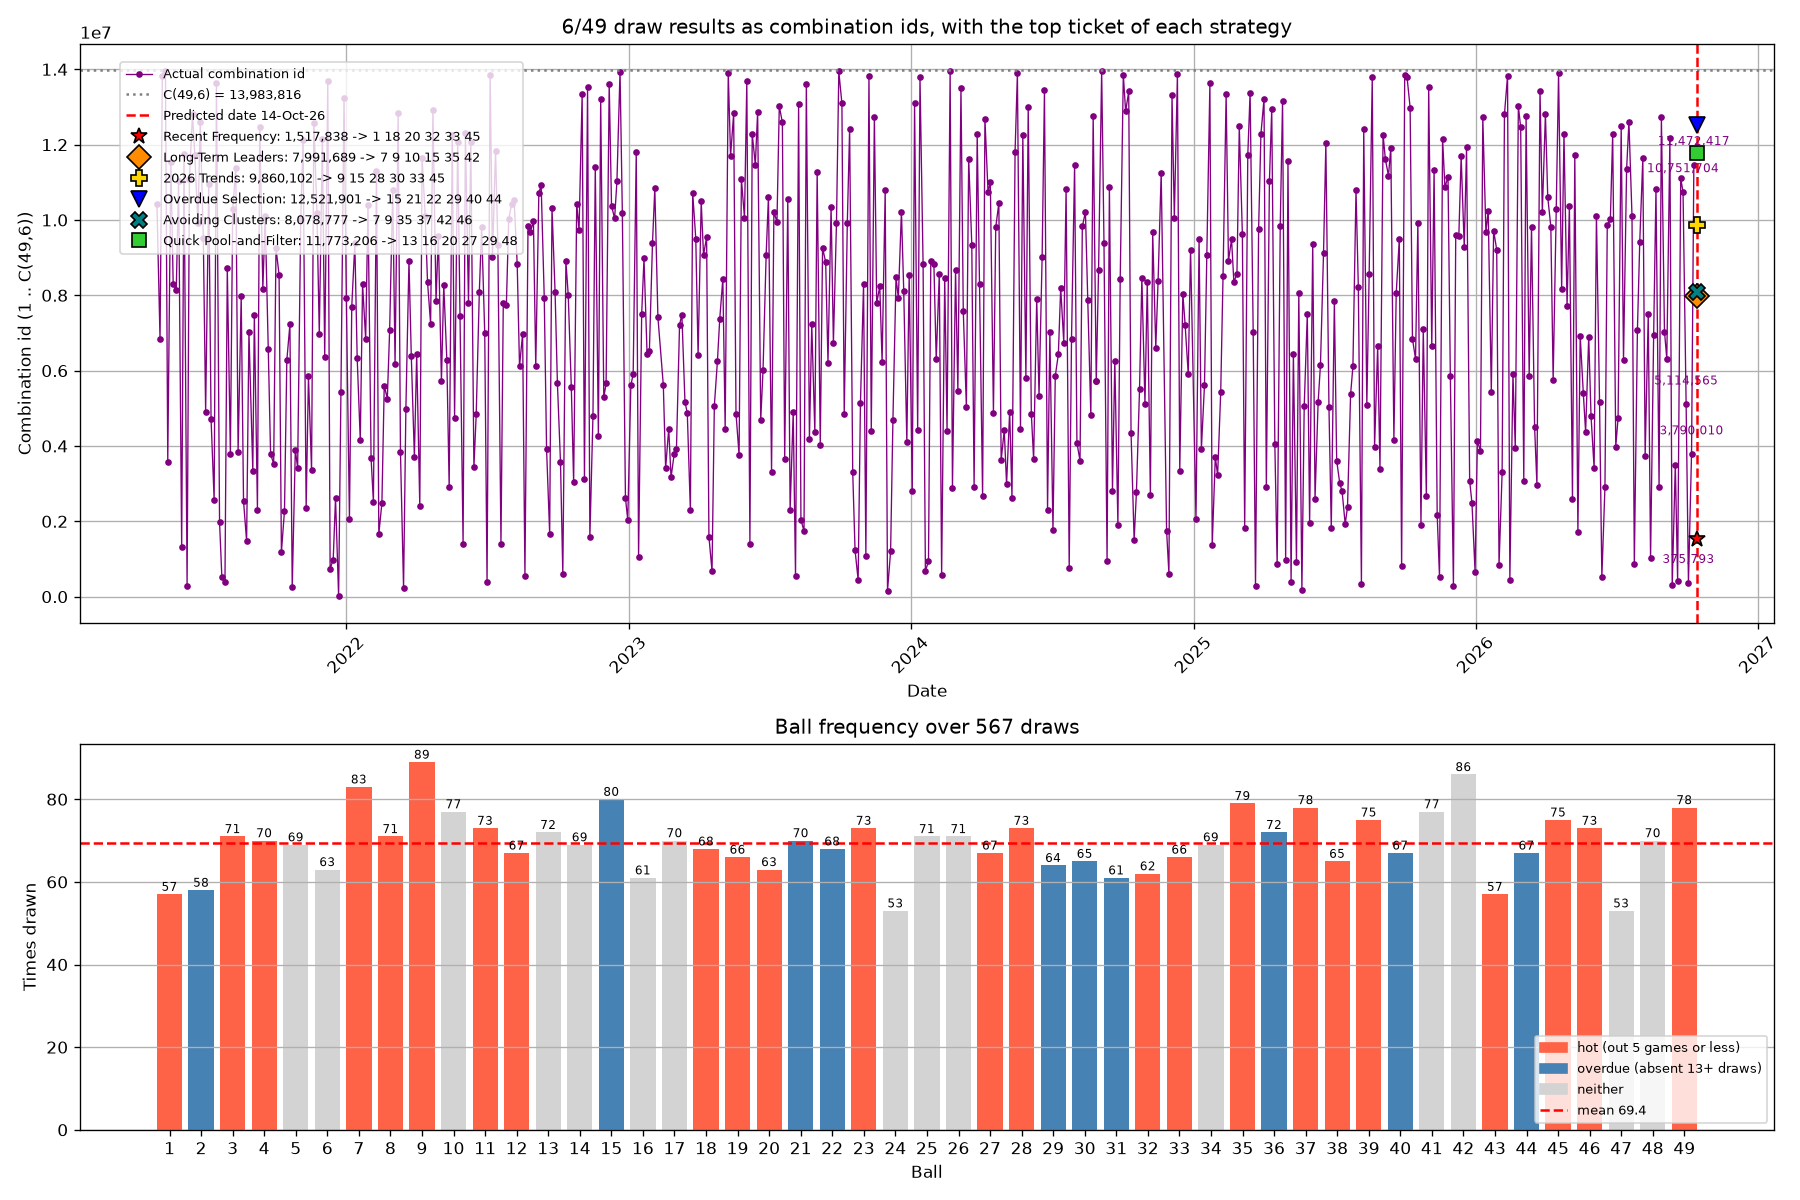
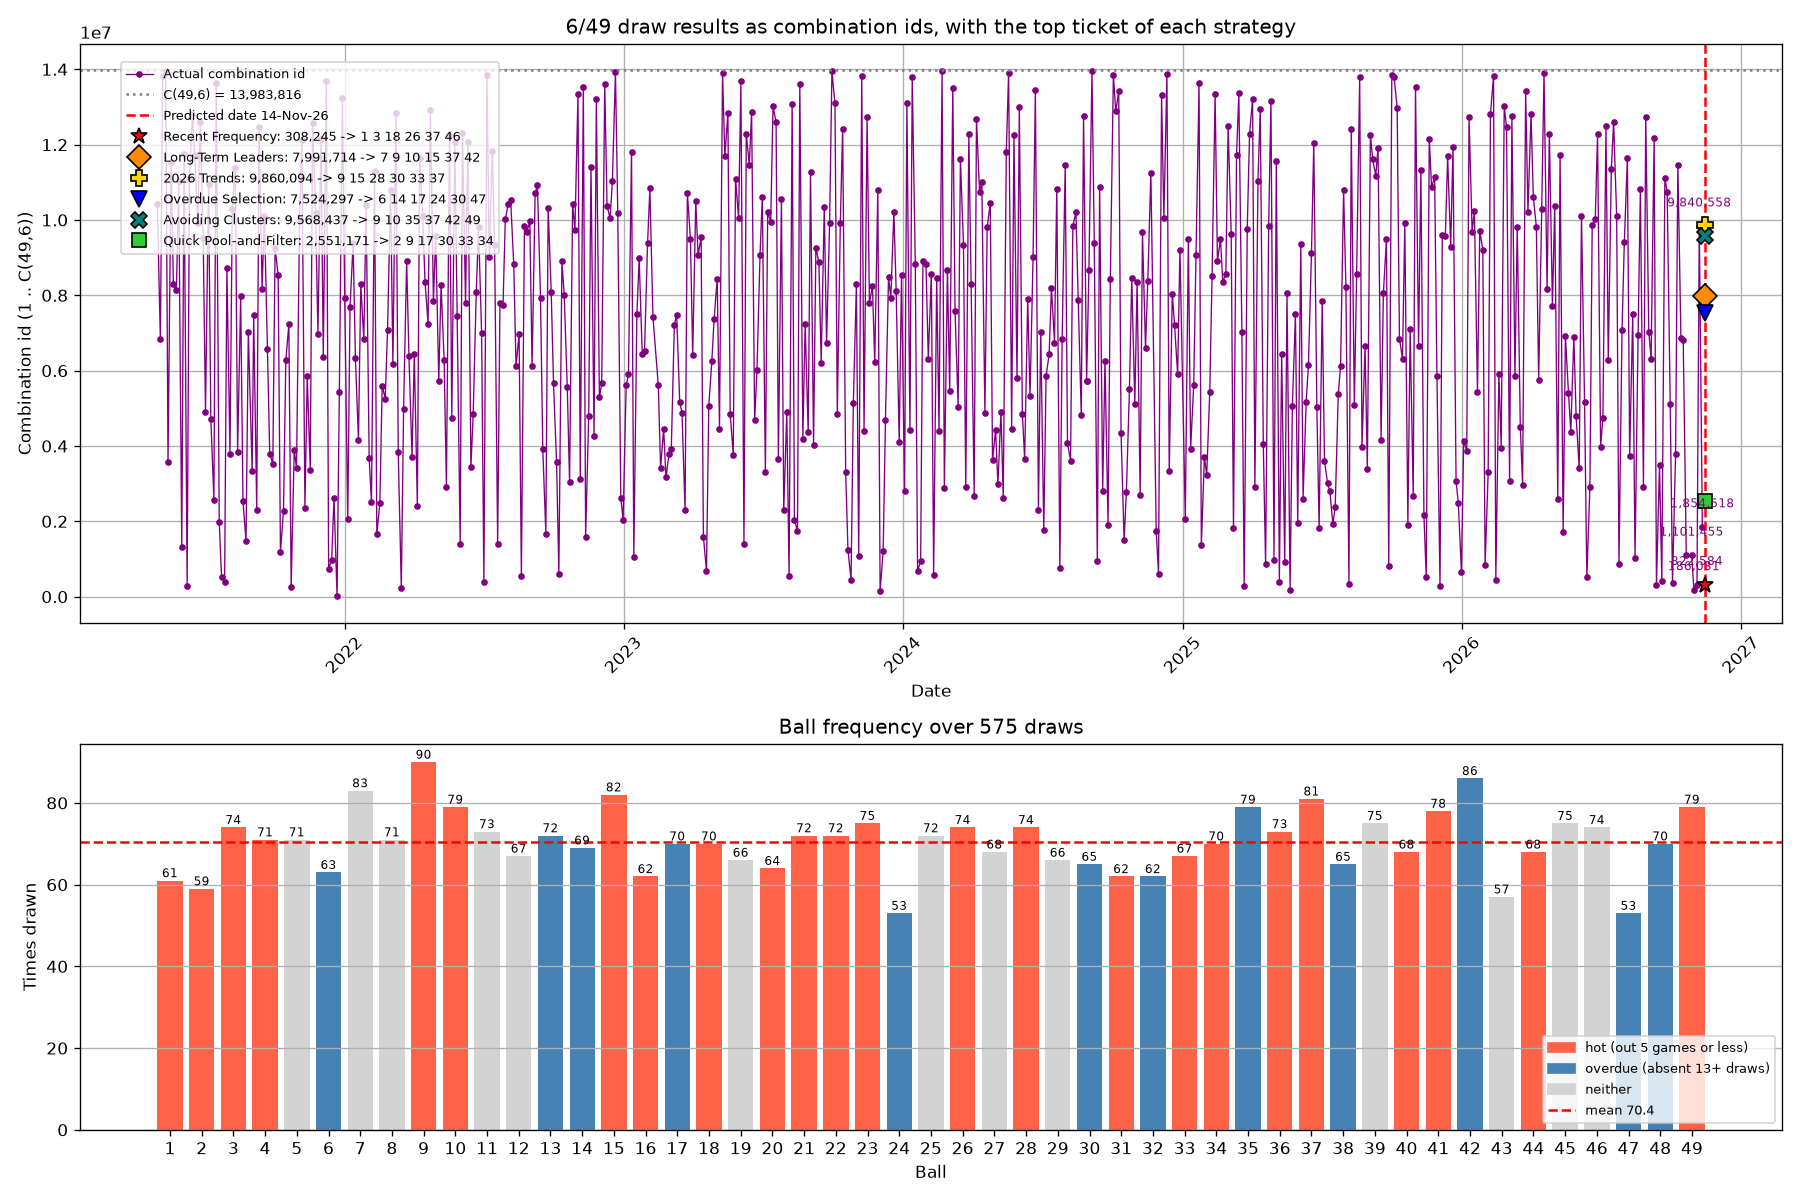
Updates - Demo 649 Prediction results

diff --git a/649_prediction.py b/649_prediction.py
@@ -12,7 +12,7 @@ from pandas import DataFrame
 # ---------------------------------------------------------------------------
 # Configuration constants
 # ---------------------------------------------------------------------------
-PREDICTED_DATE = "14-Oct-26"
+PREDICTED_DATE = "14-Nov-26"
 FILE_PATH = "results.csv"              # Date, Numbers  (Numbers = combination id)
 REFERENCE_PATH = "649Results2020.txt"  # FREQ, RESULTS, DATE  (id -> "n1 n2 n3 n4 n5 n6")
 
@@ -32,8 +32,8 @@ BONUS_POOL_SIZE = BALLS_IN_POOL # balls in the bonus pool (may equal the main po
 TOTAL_COMBINATIONS = comb(BALLS_IN_POOL, BALLS_DRAWN)   # C(49, 6) = 13,983,816
 
 # Tickets printed by each strategy
-SELECTION_COUNT = 10
-POOL_SIZES = (12, 16, 20, 24)   # a strategy's top balls; widened until enough tickets pass
+SELECTION_COUNT = 30
+POOL_SIZES = (12, 16, 20, 24)   # a strategy's top balls; widened until enough tickets pass; typically increased in steps of 4; helps balance coverage and overlap; ensures diverse ticket combinations
 MAX_SHARED_BALLS = 5            # two tickets of one strategy share at most this many balls
                                 # 5 lets near-neighbours of the target through (4 would cap
                                 # every other ticket at 4 of the target's 6 numbers)
@@ -66,23 +66,31 @@ QUICK_POOL_MID = 11             # all-time frequency nearest the average
 QUICK_POOL_REPEAT = 2           # balls of the most recent draw
 QUICK_POOL_TICKETS = 115         # default of combinations kept after filtering
 QUICK_POOL_SUM_RANGE = (115, 185)   # structural sum filter
-QUICK_POOL_SUM_TARGET = 153     # target sum for combination sorting
+QUICK_POOL_SUM_TARGET = 152     # target sum for combination sorting
                                 # = sum(TARGET_COMBINATION), so the target sorts first
+                                # 5 + 22 + 23 + 32 + 33 + 37 = 152
+QUICK_POOL_ODD_COUNTS = ODD_COUNTS  # odd/even splits Step 3 accepts.  This was hard-coded
+                                # to "exactly 3 odd", which rejected any target that is not
+                                # a 3:3 split, so it never reached the table.
+                                # ODD_COUNTS = (2, 3, 4) admits the target and
+                                # its near neighbours; set it to (4,) to print 4:2 only.
 QUICK_POOL_MAX_UNDER_31 = 5     # structural constraint: maximum numbers under 31
-                                # the target has 5 (12 18 23 27 28); the old value of 2
-                                # rejected it outright
-QUICK_POOL_MAX_SIZE = 36        # largest pool the target fit may build
-                                # fitting this target needs 33 numbers; 30 silently
-                                # cancelled the fit
+                                # the target has 3 (5 22 23), so this is not binding
+QUICK_POOL_MAX_SIZE = 40        # largest pool the target fit may build
+                                # fitting this target needs 40 numbers (balls 23, 32 and 37
+                                # are mid-table everywhere, so Mid-range widens 11 -> 26);
+                                # the old value of 36 silently cancelled the fit
 
 # Step 3 evaluation combination and mode:
 # TARGET_COMBINATION: specific combination to evaluate in Step 3 table (e.g. (3, 8, 11, 20, 33, 49)),
 # or None to evaluate the previous draw / random draw based on QUICK_POOL_EVAL_MODE
-TARGET_COMBINATION = (13, 16, 20, 21, 27, 48) # specific combination to evaluate; set to None to use previous or random draw
+TARGET_COMBINATION = () # specific combination to evaluate; set to None to use previous or random draw
     # If set to None, the evaluation will use the previous draw or a random draw based on QUICK_POOL_EVAL_MODE.
     # If set to a specific combination, that combination will be evaluated regardless of the previous or random draw.
     # Example:
-    #   TARGET_COMBINATION = (3, 8, 11, 20, 33, 49) or (12, 18, 23, 27, 28, 45) or 12 28 31 35 38 46
+    #   TARGET_COMBINATION = (3, 8, 11, 20, 33, 49) or 9 20 22 29 37 47
+    #   A target must also satisfy QUICK_POOL_SUM_RANGE, QUICK_POOL_ODD_COUNTS and
+    #   QUICK_POOL_MAX_UNDER_31, and QUICK_POOL_SUM_TARGET should be set to its sum.
     #   QUICK_POOL_EVAL_MODE = 'auto'
 
 QUICK_POOL_EVAL_MODE = 'auto'   # 'auto' (TARGET_COMBINATION or previous draw), 'previous', 'random'
@@ -101,9 +109,11 @@ QUICK_POOL_RANK_MODE = 'auto' # ranking mode for Step 3 candidates
 # Step 3 first-number constraint:
 # a combination is always stored ascending, so its "first number" is its lowest ball.
 # QUICK_POOL_START_NUMBERS restricts that lowest ball to the numbers listed here; every
-# other rule (sum range, 3:3 odd/even, max numbers under 31, never-drawn, pool
-# membership, MAX_SHARED_BALLS) still applies unchanged.
+# other rule (sum range, QUICK_POOL_ODD_COUNTS odd/even, max numbers under 31, never-drawn,
+# pool membership, MAX_SHARED_BALLS) still applies unchanged.
 QUICK_POOL_START_NUMBERS = ()    # allowed lowest ball; None or () = no constraint
+                                 # set to (5,) to print only combinations that, like the
+                                 # target, open on ball 5
 # Step 3 start-number constraint settings
 # These settings control how the Step 3 pool handles combinations based on their starting numbers.
 # QUICK_POOL_FIT_START_NUMBERS: If True, ensures that combinations starting with the specified numbers
@@ -653,9 +663,10 @@ def quick_pool_and_filter(df: DataFrame, frequencies: np.ndarray, drawn_ids=(),
                LOW_COUNTS (at least 2 low and 2 high).
       Step 3 - evaluate a 6-number draw against Step 1 bucket rankings, refine
                the active pool by strictly excluding "NOT IN POOL" numbers and
-               explicitly integrating valid in-pool numbers, then produce 20
-               combinations strictly adhering to structural constraints (Sum 115-185,
-               exactly 3:3 Odd/Even ratio, max 2 numbers under 31).
+               explicitly integrating valid in-pool numbers, then produce
+               QUICK_POOL_TICKETS combinations adhering to the structural constraints
+               (sum in QUICK_POOL_SUM_RANGE, odd/even split in QUICK_POOL_ODD_COUNTS,
+               at most QUICK_POOL_MAX_UNDER_31 numbers under 31).
 
     Returns:
         dict: buckets, pool, sizes, base_sizes, raw, eliminated, valid, already_drawn,
@@ -781,7 +792,7 @@ def quick_pool_and_filter(df: DataFrame, frequencies: np.ndarray, drawn_ids=(),
         for combination in combinations(refined_pool, BALLS_DRAWN):
             if not (QUICK_POOL_SUM_RANGE[0] <= sum(combination) <= QUICK_POOL_SUM_RANGE[1]):
                 continue
-            if odd_count(combination) != 3:
+            if odd_count(combination) not in QUICK_POOL_ODD_COUNTS:
                 continue
             if sum(b < 31 for b in combination) > QUICK_POOL_MAX_UNDER_31:
                 continue
@@ -881,25 +892,65 @@ def quick_pool_and_filter(df: DataFrame, frequencies: np.ndarray, drawn_ids=(),
 
 
 def explain_target(quick: dict) -> None:
-    """Optional target combination detail reporter."""
+    """
+    Report whether the target combination can actually be printed, and why not when
+    it cannot.  Every rule that can silently drop it is checked here, so a target
+    that never appears in the table below always comes with a reason.
+    """
     report = quick.get('target')
-    if not report or not report.get('fit_note'):
+    if not report:
         return
-    print(f"  {report['fit_note']}")
+    combination = tuple(report['combination'])
+    odd, under_31 = odd_count(combination), sum(b < 31 for b in combination)
+    print(f"\n  Target {format_combination(combination)}  "
+          f"(id {report['id']:,}, sum {sum(combination)}, "
+          f"{odd}:{BALLS_DRAWN - odd} odd/even, {under_31} under 31):")
+    if report.get('fit_note'):
+        print(f"  - {report['fit_note']}")
+
+    blockers = []
+    if report['missing']:
+        blockers.append(f"not in the refined pool: {format_combination(report['missing'])}")
+    if report['drawn']:
+        blockers.append("already drawn before, so it is skipped")
+    if report['blocked_by_start']:
+        blockers.append(f"opens on {combination[0]}, which is not an allowed start number")
+    if not QUICK_POOL_SUM_RANGE[0] <= sum(combination) <= QUICK_POOL_SUM_RANGE[1]:
+        blockers.append(f"sum {sum(combination)} is outside QUICK_POOL_SUM_RANGE "
+                        f"{QUICK_POOL_SUM_RANGE}")
+    if odd not in QUICK_POOL_ODD_COUNTS:
+        blockers.append(f"{odd}:{BALLS_DRAWN - odd} is not in QUICK_POOL_ODD_COUNTS "
+                        f"{tuple(QUICK_POOL_ODD_COUNTS)}")
+    if under_31 > QUICK_POOL_MAX_UNDER_31:
+        blockers.append(f"{under_31} numbers under 31 exceeds QUICK_POOL_MAX_UNDER_31 "
+                        f"({QUICK_POOL_MAX_UNDER_31})")
+
+    if blockers:
+        for blocker in blockers:
+            print(f"  - cannot be printed: {blocker}")
+    else:
+        rank = next((position for position, (comb, _, _) in enumerate(quick['tickets'], start=1)
+                     if tuple(comb) == combination), None)
+        print(f"  - passes every filter; "
+              + (f"printed at rank {rank} below" if rank else
+                 "ranked below the printed tickets - raise QUICK_POOL_TICKETS"))
 
 
 def save_quick_pool(quick: dict, last_draw=None, path=QUICK_POOL_CSV) -> None:
     """Save the final Quick Pool-and-Filter tickets as a CSV file."""
+    target_set = set(quick['target']['combination']) if quick.get('target') else set()
     rows = []
     for combination, combination_id, _ in quick['tickets']:
         odd = odd_count(combination)
         under_31 = sum(b < 31 for b in combination)
         rows.append({
             'Combination': ' '.join(str(b) for b in combination),
+            'Combination id': combination_id,
             'Sum': sum(combination),
             'Odd/Even Ratio': f"{odd}:{BALLS_DRAWN - odd}",
             'Numbers Under 31': under_31,
             'First Number': combination[0],
+            'Shared with target': len(target_set & set(combination)) if target_set else '',
         })
     pd.DataFrame(rows).to_csv(path, index=False)
 
@@ -945,6 +996,8 @@ def print_quick_pool(quick: dict, last_draw, date_label: str, repeat_rate: float
     print(f"  - Explicitly integrated ('In pool'): {' '.join(str(b) for b in in_pool) or 'none'}")
     print(f"  - Refined active pool ({len(quick['refined_pool'])} numbers): {' '.join(str(b) for b in quick['refined_pool'])}")
 
+    explain_target(quick)
+
     if quick['start_numbers']:
         mode = "round-robin" if QUICK_POOL_START_BALANCED else "rank order"
         print(f"\n  First number restricted to {format_combination(quick['start_numbers'])} ({mode}); "
@@ -968,15 +1021,21 @@ def print_quick_pool(quick: dict, last_draw, date_label: str, repeat_rate: float
     print(f"\n  Ranked by {reasons[mode]}{resolved}")
 
     bucket_of = {ball: name for name, balls in quick['buckets'] for ball, _ in balls}
+    target_values = tuple(quick['target']['combination']) if quick.get('target') else ()
+    target_set = set(target_values)
     print(f"\n  {'Combination':<20}{'ID':>12}{'Sum':>5}{'Odd/Even Ratio':>16}{'Numbers Under 31':>18}"
-          f"{'Starts':>8}{'Buckets':>9}")
+          f"{'Starts':>8}{'Buckets':>9}{'Target':>8}")
     for comb, _, _ in quick['tickets']:
         odd = odd_count(comb)
         combination_id = combination_to_id(comb)
         under_31 = sum(b < 31 for b in comb)
         covered = len({bucket_of[b] for b in comb if b in bucket_of})
+        shared = len(target_set & set(comb)) if target_set else 0
+        flag = f"{shared}/{BALLS_DRAWN}" if target_set else ""
+        mark = "  <- target" if target_set and tuple(comb) == target_values else ""
         print(f"  {format_combination(comb):<20}{combination_id:>12}{sum(comb):>5}"
-              f"{f'{odd}:{BALLS_DRAWN - odd}':>16}{under_31:>18}{comb[0]:>8}{covered:>9}")
+              f"{f'{odd}:{BALLS_DRAWN - odd}':>16}{under_31:>18}{comb[0]:>8}{covered:>9}"
+              f"{flag:>8}{mark}")
 
     if QUICK_POOL_CSV:
         print(f"\n  Saved {len(quick['tickets'])} tickets to {QUICK_POOL_CSV}")

diff --git a/next_cyp_predictions.py b/next_cyp_predictions.py
@@ -11,7 +11,7 @@ from datetime import datetime
 from statsmodels.tsa.holtwinters import ExponentialSmoothing
 
 # Configuration constants
-PREDICTED_DATE = "14-Oct-26"
+PREDICTED_DATE = "07-Nov-26"
 FILE_PATH = "results.csv"
 
 def load_and_prepare_data(file_path) -> tuple:
